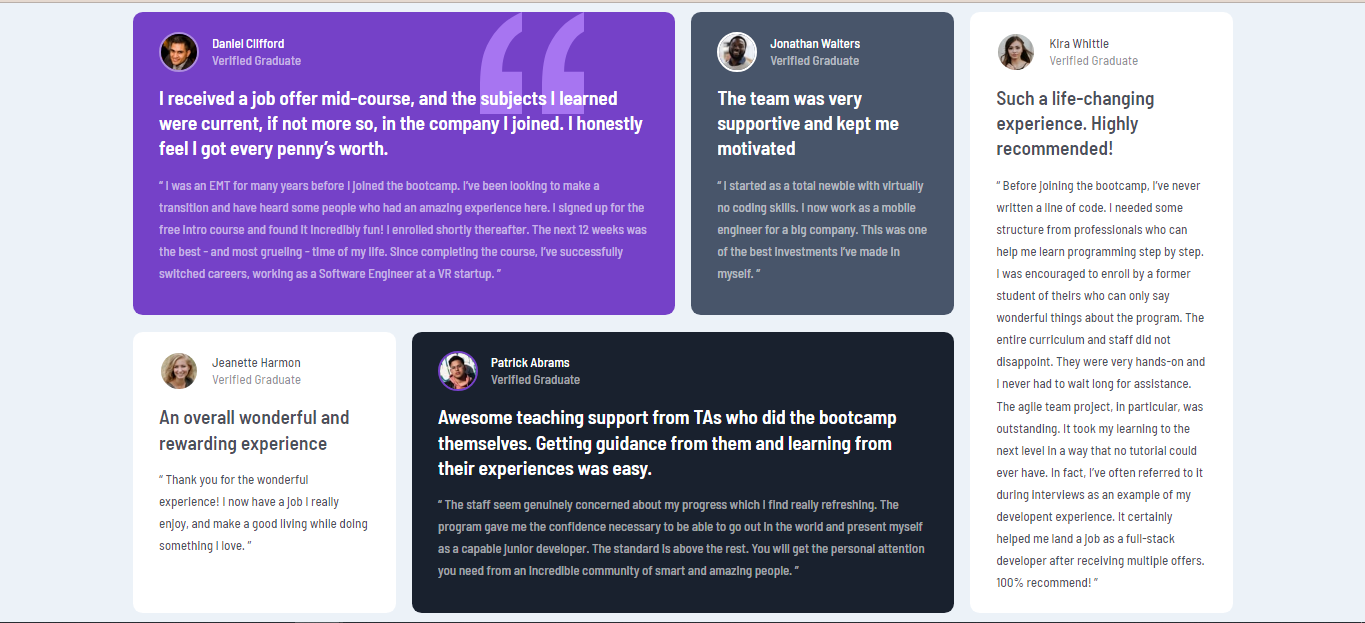
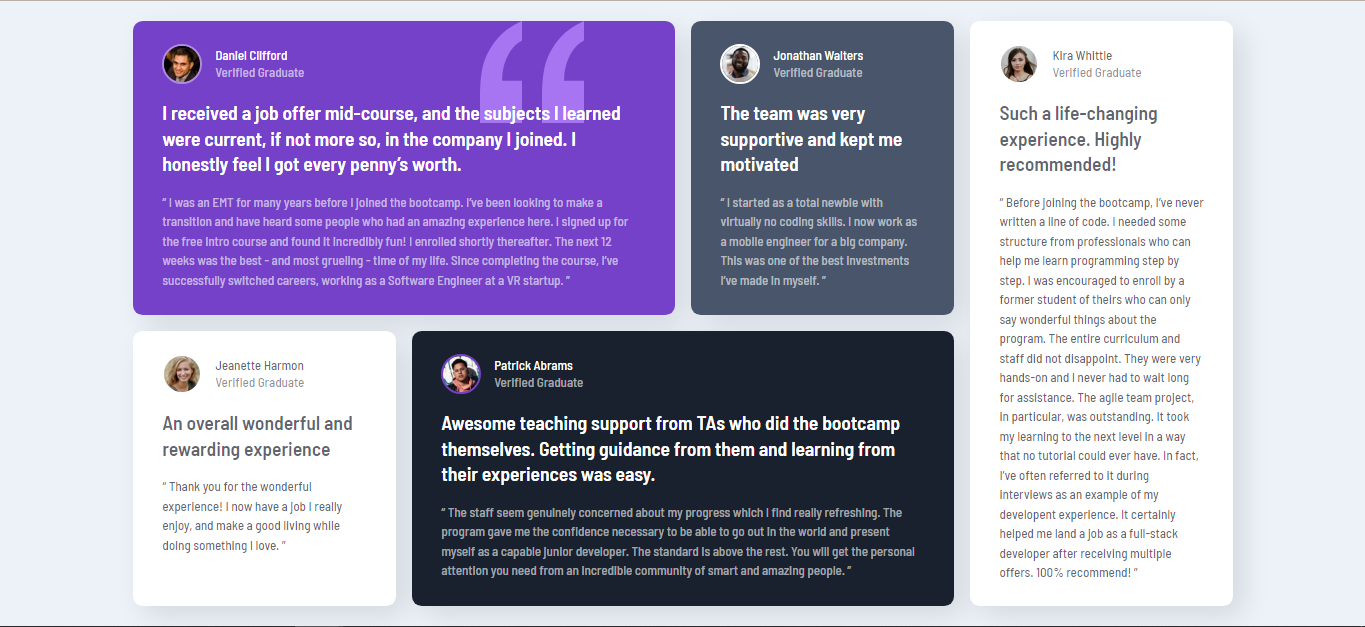
fix box-shadows

diff --git a/assets/styles/style.css b/assets/styles/style.css
@@ -47,7 +47,7 @@ h1 {
 }
 
 .dark-p {
-    color: hsla(var(--dark-black-blue), 0.8);
+    color: hsla(var(--dark-black-blue), 0.7);
 }
 
 .dark-sub {
@@ -55,7 +55,7 @@ h1 {
 }
 
 .grid-item>p {
-    line-height: 1.7;
+    line-height: 1.5;
 }
 
 .white-half-transparent {
@@ -75,14 +75,15 @@ h1 {
 .grid-item {
     position: relative;
     background-color: hsl(var(--white));
-    padding: 1.5rem 2rem;
+    padding: 1.75rem 2.25rem;
     display: flex;
     flex-direction: column;
-    gap: 1rem;
+    gap: 1.25rem;
     border-radius: 0.75rem;
+    box-shadow: 10px 10px 28px 0px rgba(0, 0, 0, 0.1);
 }
 
-.grid-item > h1 {
+.grid-item>h1 {
     z-index: 1;
 }
 
@@ -139,16 +140,16 @@ h1 {
     z-index: 0;
 }
 
- .client-group>img {
-     height: 40px;
- }
+.client-group>img {
+    height: 40px;
+}
 
 /* == Media Queries == */
 
 @media (max-width: 768px) {
     .grid-container {
         grid-template-columns: 1fr;
-    }    
+    }
 
     .grid-item:nth-child(1) {
         grid-column: 1;

diff --git a/README.md b/README.md
@@ -28,8 +28,8 @@ Users should be able to:
 
 ### Links
 
-- [Solution URL](https://github.com/vladimir-semeryuk/testimonials-fm)
-- [Live Site URL](https://vladimir-semeryuk.github.io/testimonials-fm/)
+- Solution URL: [Add solution URL here](https://your-solution-url.com)
+- Live Site URL: [Add live site URL here](https://your-live-site-url.com)
 
 ## My process
 
